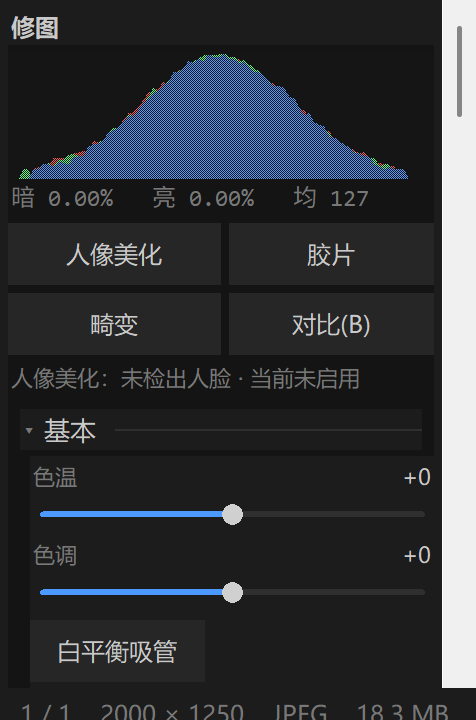
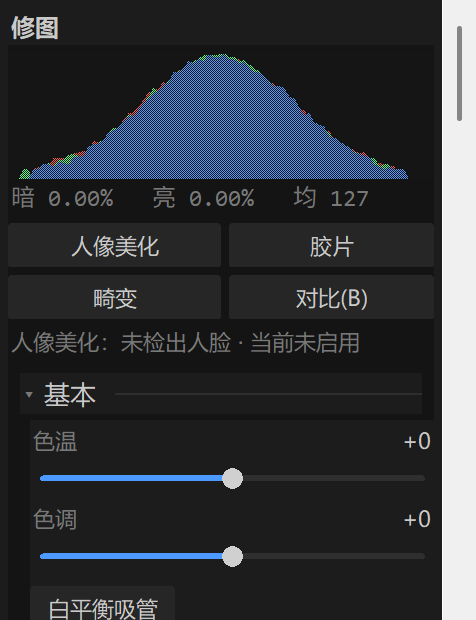
release 8.5.3: 真圆角按钮(Canvas 自绘) + 工具栏改名面板 + 直方图空态提示

diff --git a/docs/index.html b/docs/index.html
@@ -138,7 +138,7 @@
 </head>
 <body>
 <div class="top"><div class="topin">
-  <a class="brand" href="./"><img src="Prism.png" alt=""><b>Prism</b><i>8.5.2</i></a>
+  <a class="brand" href="./"><img src="Prism.png" alt=""><b>Prism</b><i>8.5.3</i></a>
   <nav class="menu">
     <div class="mi"><a href="#features">产品</a>
       <div class="sub">
@@ -170,11 +170,11 @@
     <div class="mi"><a href="#download">下载</a>
       <div class="sub">
         <span class="gh">Windows</span>
-        <a href="https://github.com/11ly322/Prism/releases/download/v8.5.2/$18.5.2.exe" download><span style="display:inline-block;margin-left:6px;padding:1px 6px;border-radius:6px;font-size:11px;background:#2f7d32;color:#fff">完整支持</span>完整版 <i>39.9 MB</i></a>
-        <a href="https://github.com/11ly322/Prism/releases/download/v8.5.2/$18.5.2.exe" download>看图版（安装包） <i>39.9 MB</i></a>
+        <a href="https://github.com/11ly322/Prism/releases/download/v8.5.3/$18.5.2.exe" download><span style="display:inline-block;margin-left:6px;padding:1px 6px;border-radius:6px;font-size:11px;background:#2f7d32;color:#fff">完整支持</span>完整版 <i>39.9 MB</i></a>
+        <a href="https://github.com/11ly322/Prism/releases/download/v8.5.3/$18.5.2.exe" download>看图版（安装包） <i>39.9 MB</i></a>
         <span class="gh">其它平台</span>
-        <a href="https://github.com/11ly322/Prism/releases/download/v8.5.2/$18.5.2.zip" download><span style="display:inline-block;margin-left:6px;padding:1px 6px;border-radius:6px;font-size:11px;background:#8a6d1f;color:#fff">源码预览</span>macOS <i>源码运行</i></a>
-        <a href="https://github.com/11ly322/Prism/releases/download/v8.5.2/$18.5.2.zip" download><span style="display:inline-block;margin-left:6px;padding:1px 6px;border-radius:6px;font-size:11px;background:#8a6d1f;color:#fff">源码预览</span>Linux <i>源码运行</i></a>
+        <a href="https://github.com/11ly322/Prism/releases/download/v8.5.3/$18.5.2.zip" download><span style="display:inline-block;margin-left:6px;padding:1px 6px;border-radius:6px;font-size:11px;background:#8a6d1f;color:#fff">源码预览</span>macOS <i>源码运行</i></a>
+        <a href="https://github.com/11ly322/Prism/releases/download/v8.5.3/$18.5.2.zip" download><span style="display:inline-block;margin-left:6px;padding:1px 6px;border-radius:6px;font-size:11px;background:#8a6d1f;color:#fff">源码预览</span>Linux <i>源码运行</i></a>
         <span class="sp"></span>
         <a href="#docs">说明文档</a>
         <a href="#verify">证书与校验</a>
@@ -189,22 +189,22 @@
     <p class="lead">打开快、切图快、调色准。支持尼康 NEF 与常见格式，内置曲线、HSL 与局部滤镜，还可以用插件扩展。</p>
     <div class="cta">
       <div class="spl">
-        <a class="btn" href="https://github.com/11ly322/Prism/releases/download/v8.5.2/$18.5.2.exe" download>下载完整版</a>
+        <a class="btn" href="https://github.com/11ly322/Prism/releases/download/v8.5.3/$18.5.2.exe" download>下载完整版</a>
         <button class="caret" aria-label="更多版本">▾</button>
         <div class="opts">
-          <a href="https://github.com/11ly322/Prism/releases/download/v8.5.2/$18.5.2.exe" download><i>40.0 MB</i><b>Windows 完整版</b><span>安装包 · 含修图与插件</span></a>
-          <a href="https://github.com/11ly322/Prism/releases/download/v8.5.2/$18.5.2.exe" download><i>39.9 MB</i><b>Windows 看图版</b><span>安装包 · 纯浏览，与完整版同样装法</span></a>
-          <a href="https://github.com/11ly322/Prism/releases/download/v8.5.2/$18.5.2.zip" download><i>149 KB</i><b>macOS</b><span>源码运行 · 需 Python 3</span></a>
-          <a href="https://github.com/11ly322/Prism/releases/download/v8.5.2/$18.5.2.zip" download><i>149 KB</i><b>Linux</b><span>源码运行 · 带桌面项</span></a>
+          <a href="https://github.com/11ly322/Prism/releases/download/v8.5.3/$18.5.2.exe" download><i>40.0 MB</i><b>Windows 完整版</b><span>安装包 · 含修图与插件</span></a>
+          <a href="https://github.com/11ly322/Prism/releases/download/v8.5.3/$18.5.2.exe" download><i>39.9 MB</i><b>Windows 看图版</b><span>安装包 · 纯浏览，与完整版同样装法</span></a>
+          <a href="https://github.com/11ly322/Prism/releases/download/v8.5.3/$18.5.2.zip" download><i>149 KB</i><b>macOS</b><span>源码运行 · 需 Python 3</span></a>
+          <a href="https://github.com/11ly322/Prism/releases/download/v8.5.3/$18.5.2.zip" download><i>149 KB</i><b>Linux</b><span>源码运行 · 带桌面项</span></a>
         </div>
       </div>
-      <div class="meta">版本 8.5.2<br>40.0 MB · Windows 10/11 64 位</div>
+      <div class="meta">版本 8.5.3<br>40.0 MB · Windows 10/11 64 位</div>
     </div>
     <p class="plats"><b>全部下载</b>
-      <a href="https://github.com/11ly322/Prism/releases/download/v8.5.2/$18.5.2.exe" download>Windows 完整版</a><em>39.8 MB</em>
-      <a href="https://github.com/11ly322/Prism/releases/download/v8.5.2/$18.5.2.exe" download>Windows 看图版</a><em>39.9 MB</em>
-      <a href="https://github.com/11ly322/Prism/releases/download/v8.5.2/$18.5.2.zip" download>macOS</a><em>104 KB</em>
-      <a href="https://github.com/11ly322/Prism/releases/download/v8.5.2/$18.5.2.zip" download>Linux</a><em>105 KB</em>
+      <a href="https://github.com/11ly322/Prism/releases/download/v8.5.3/$18.5.2.exe" download>Windows 完整版</a><em>39.8 MB</em>
+      <a href="https://github.com/11ly322/Prism/releases/download/v8.5.3/$18.5.2.exe" download>Windows 看图版</a><em>39.9 MB</em>
+      <a href="https://github.com/11ly322/Prism/releases/download/v8.5.3/$18.5.2.zip" download>macOS</a><em>104 KB</em>
+      <a href="https://github.com/11ly322/Prism/releases/download/v8.5.3/$18.5.2.zip" download>Linux</a><em>105 KB</em>
     </p>
   </header>
 
@@ -351,16 +351,16 @@
     <h2>下载与安装</h2>
     <table>
       <tr><td class="grp" colspan="2">Windows</td></tr>
-      <tr><td><a href="https://github.com/11ly322/Prism/releases/download/v8.5.2/$18.5.2.exe" download>完整版安装包</a></td>
+      <tr><td><a href="https://github.com/11ly322/Prism/releases/download/v8.5.3/$18.5.2.exe" download>完整版安装包</a></td>
           <td>39.8 MB · 含修图面板与插件</td></tr>
-      <tr><td><a href="https://github.com/11ly322/Prism/releases/download/v8.5.2/$18.5.2.exe" download>纯看图版（安装包）</a></td>
+      <tr><td><a href="https://github.com/11ly322/Prism/releases/download/v8.5.3/$18.5.2.exe" download>纯看图版（安装包）</a></td>
           <td>39.9 MB · 与完整版同样装法，含开始菜单与桌面快捷方式</td></tr>
-      <tr><td><a href="https://github.com/11ly322/Prism/releases/download/v8.5.2/$18.5.2.zip" download>纯看图版（便携）</a></td>
+      <tr><td><a href="https://github.com/11ly322/Prism/releases/download/v8.5.3/$18.5.2.zip" download>纯看图版（便携）</a></td>
           <td>29.9 MB · 解压即用，不写注册表</td></tr>
       <tr><td class="grp" colspan="2">macOS / Linux</td></tr>
-      <tr><td><a href="https://github.com/11ly322/Prism/releases/download/v8.5.2/$18.5.2.zip" download>macOS 运行包</a></td>
+      <tr><td><a href="https://github.com/11ly322/Prism/releases/download/v8.5.3/$18.5.2.zip" download>macOS 运行包</a></td>
           <td>104 KB · 源码运行，需 Python 3 + Pillow</td></tr>
-      <tr><td><a href="https://github.com/11ly322/Prism/releases/download/v8.5.2/$18.5.2.zip" download>Linux 运行包</a></td>
+      <tr><td><a href="https://github.com/11ly322/Prism/releases/download/v8.5.3/$18.5.2.zip" download>Linux 运行包</a></td>
           <td>105 KB · 带 .desktop，需 python3-tk</td></tr>
       <tr><td class="grp" colspan="2">系统要求（Windows 版）</td></tr>
       <tr><td>操作系统</td><td>Windows 10 / 11（64 位）</td></tr>
@@ -377,7 +377,7 @@
       <p class="cap" style="margin:0">2. 全屏为兼容模式（无边框最大化 + Esc 退出），不是系统级全屏。</p>
       <p class="cap" style="margin:0">3. macOS 与 Linux 是源码预览包，没有编译好的 .app / AppImage。</p>
     </div>
-    <p class="cap" style="margin-top:10px"><strong>便携版</strong>：<a href="https://github.com/11ly322/Prism/releases/download/v8.5.2/$18.5.2.zip">$18.5.2.zip</a>（完整版解压即用，不写注册表、不装开始菜单）</p>
+    <p class="cap" style="margin-top:10px"><strong>便携版</strong>：<a href="https://github.com/11ly322/Prism/releases/download/v8.5.3/$18.5.2.zip">$18.5.2.zip</a>（完整版解压即用，不写注册表、不装开始菜单）</p>
     <h3>如何安全绕过 SmartScreen</h3>
     <p class="cap" style="margin-top:0">安装包未做代码签名，所以 Windows 会提示「已保护你的电脑」。先校验文件，再决定是否运行：</p>
     <ol class="cap" style="margin:0 0 10px 18px;padding:0">
@@ -398,13 +398,13 @@
       <tr><td>有效期至</td><td>2026-12-30</td></tr>
       <tr><td class="grp" colspan="2">安装包校验</td></tr>
       <tr><td>文件</td><td>$18.5.2.exe</td></tr>
-      <tr><td>SHA-256</td><td><code>7A4D291D36CC9182B3D637549606B6E4126594A2CB0FE666BCFC3F9B6AD2C6CA</code></td></tr>
+      <tr><td>SHA-256</td><td><code>830E06B31ECFC01B0951150F1812DF84B3E846906AD8480CC611AAD98F8A8931</code></td></tr>
     </table>
     <p class="cap">下载后可用 <code>certutil -hashfile 文件名 SHA256</code>（Windows）或 <code>shasum -a 256 文件名</code>（macOS/Linux）比对。</p>
   </section>
 
   <footer>
-    <div>Prism 8.5.2 · 简约图片查看器</div>
+    <div>Prism 8.5.3 · 简约图片查看器</div>
     <div><a href="#docs">说明文档</a></div>
   </footer>
 </div>

diff --git a/CHANGELOG.md b/CHANGELOG.md
@@ -4,6 +4,19 @@
 > 已一并改为 Prism，功能与时间线不变。代码里的 QPEApp / _QpeSlider 等内部
 > 标识符与旧配置迁移路径保持原名，改动会破坏兼容。
 
+## v8.5.3  （真圆角按钮 + 命名清理 + 直方图空态）
+
+- **真圆角按钮**：新增 `_QpeRoundButton`（Canvas 自绘，平滑多边形画圆角矩形，
+  带 hover / disabled 三态，接口贴近 tk.Button：text/command/state/configure）。
+  `_panel_btn` 全部改用它，因此面板里 70 处按钮（快捷 2x2、裁剪、撤销、保存、
+  插件、批量…）一次性获得圆角，调用方无需改动。
+  圆角半径走令牌 RADIUS_SM(4)。
+- **工具栏「编辑」改名「面板」**：菜单里已有「编辑」，同名容易误会；
+  这个按钮实际是开关侧栏。
+- **直方图空态提示**：无图时不再是一块纯黑矩形，居中显示「打开图片后显示直方图」。
+  写的时候犯了顺序错误（`w`/`h` 在分支之后才计算），被 except 吞掉导致提示不出现，
+  已把尺寸计算提到前面，并用 `find_all/type` 验证画布上确实有这段文字。
+
 ## v8.5.2  （外观改造 3/3：层次、分隔、读数对齐）
 
 - **卡片层次**：面板底改为更暗的 PANEL_BG(#141414)，每块分区是 CARD_BG(#1c1c1c)

diff --git a/docs/CHANGELOG.md b/docs/CHANGELOG.md
@@ -4,6 +4,19 @@
 > 已一并改为 Prism，功能与时间线不变。代码里的 QPEApp / _QpeSlider 等内部
 > 标识符与旧配置迁移路径保持原名，改动会破坏兼容。
 
+## v8.5.3  （真圆角按钮 + 命名清理 + 直方图空态）
+
+- **真圆角按钮**：新增 `_QpeRoundButton`（Canvas 自绘，平滑多边形画圆角矩形，
+  带 hover / disabled 三态，接口贴近 tk.Button：text/command/state/configure）。
+  `_panel_btn` 全部改用它，因此面板里 70 处按钮（快捷 2x2、裁剪、撤销、保存、
+  插件、批量…）一次性获得圆角，调用方无需改动。
+  圆角半径走令牌 RADIUS_SM(4)。
+- **工具栏「编辑」改名「面板」**：菜单里已有「编辑」，同名容易误会；
+  这个按钮实际是开关侧栏。
+- **直方图空态提示**：无图时不再是一块纯黑矩形，居中显示「打开图片后显示直方图」。
+  写的时候犯了顺序错误（`w`/`h` 在分支之后才计算），被 except 吞掉导致提示不出现，
+  已把尺寸计算提到前面，并用 `find_all/type` 验证画布上确实有这段文字。
+
 ## v8.5.2  （外观改造 3/3：层次、分隔、读数对齐）
 
 - **卡片层次**：面板底改为更暗的 PANEL_BG(#141414)，每块分区是 CARD_BG(#1c1c1c)
